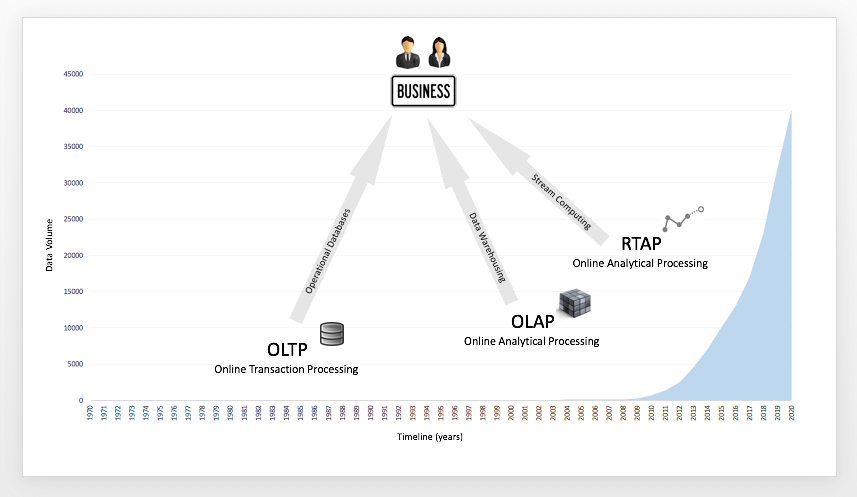
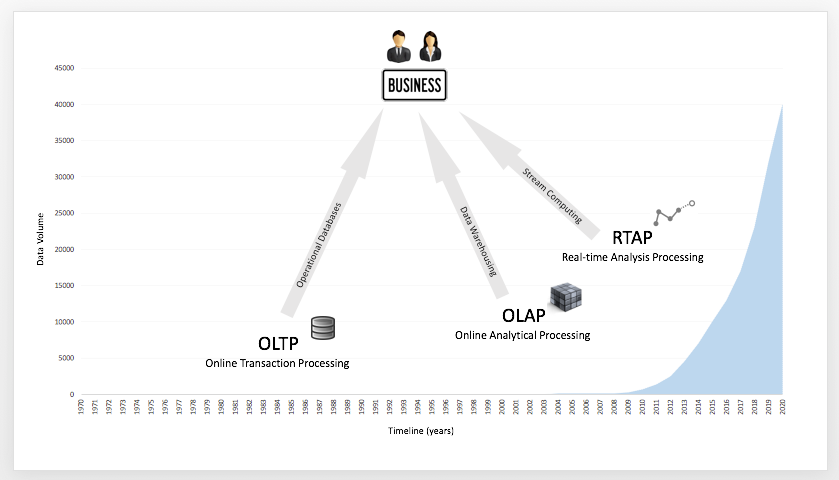
Small update to the image that had the bad name of RTAP

diff --git a/2016/OLTP-vs-OLAP-vs-RTAP/index.html b/2016/OLTP-vs-OLAP-vs-RTAP/index.html
@@ -178,7 +178,7 @@
 
 <p><img src="http://mfgaspar.github.io/assets/rtap_evolution_chart.png" alt="Evolution over time" /></p>
 
-<h3 id="once-up-on-a-time-we-could-build-analysis-on-oltp-">Once up on a time we could build analysis on OLTP …</h3>
+<h3 id="once-up-on-a-time-we-could-build-reports-on-oltp-">Once up on a time we could build reports on OLTP …</h3>
 
 <p>Once up on a time, companies had the need to summarize data to take decision, but the queries and reports that were built at the time, did take some time to developed and usually were built on demand. t was impossible to determine if you had the right version of a spreadsheet, with the most current data and logic in it. I am not too old (at least I like to think that way), but I can remember companies were building reports on top of a OLTP database, that could be nice because business users would get fresh results, but sometimes causing performance issues on their day to day work.</p>
 
